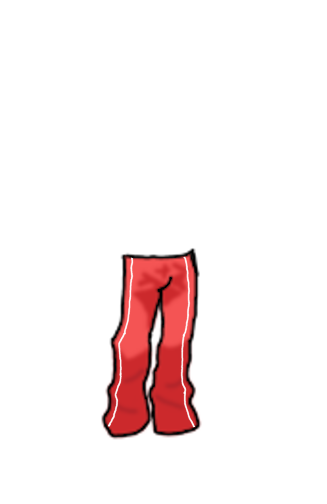
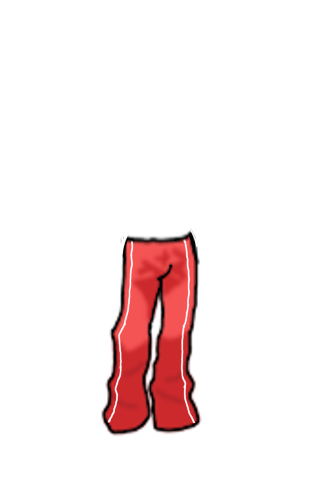
Agregar nuevas opciones de avatares TORA y CEREZA

Changed region(s): [[0.3058, 0.4464, 0.6116, 0.8929]]

diff --git a/perfil.html b/perfil.html
@@ -311,6 +311,8 @@ MacroReborn
               <div class="opcion-item" data-capa="ojos" data-valor="tora_ojos2" data-modelo="tora"><img src="imagenes/tora/ojos2.png" alt="">Ojos 2</div>
               <div class="opcion-item" data-capa="ojos" data-valor="tora_ojos3" data-modelo="tora"><img src="imagenes/tora/ojos3.png" alt="">Ojos 3</div>
               <div class="opcion-item" data-capa="ojos" data-valor="tora_ojos4" data-modelo="tora"><img src="imagenes/tora/ojos4.png" alt="">Ojos 4</div>
+              <div class="opcion-item" data-capa="ojos" data-valor="tora_ojos5" data-modelo="tora"><img src="imagenes/tora/ojos5.png" alt="">Ojos 5</div>
+              <div class="opcion-item" data-capa="ojos" data-valor="tora_ojos6" data-modelo="tora"><img src="imagenes/tora/ojos6.png" alt="">Ojos 6</div>
               <div class="opcion-item" data-capa="ojos" data-valor="cereza_ojos1" data-modelo="cereza"><img src="imagenes/cereza/ojos1.png" alt="">Ojos 1</div>
               <div class="opcion-item" data-capa="ojos" data-valor="cereza_ojos2" data-modelo="cereza"><img src="imagenes/cereza/ojos2.png" alt="">Ojos 2</div>
               <div class="opcion-item" data-capa="ojos" data-valor="cereza_ojos3" data-modelo="cereza"><img src="imagenes/cereza/ojos3.png" alt="">Ojos 3</div>
@@ -374,6 +376,8 @@ MacroReborn
               <div class="opcion-item" data-capa="botas" data-valor="tora_botas2" data-modelo="tora"><img src="imagenes/tora/botas2.png" alt="">Botas 2</div>
               <div class="opcion-item" data-capa="botas" data-valor="tora_botas3" data-modelo="tora"><img src="imagenes/tora/botas3.png" alt="">Botas 3</div>
               <div class="opcion-item" data-capa="botas" data-valor="tora_botas4" data-modelo="tora"><img src="imagenes/tora/botas4.png" alt="">Botas 4</div>
+              <div class="opcion-item" data-capa="botas" data-valor="tora_botas5" data-modelo="tora"><img src="imagenes/tora/botas5.png" alt="">Botas 5</div>
+              <div class="opcion-item" data-capa="botas" data-valor="tora_botas6" data-modelo="tora"><img src="imagenes/tora/botas6.png" alt="">Botas 6</div>
               <div class="opcion-item" data-capa="botas" data-valor="cereza_botas1" data-modelo="cereza"><img src="imagenes/cereza/botas1.png" alt="">Botas 1</div>
               <div class="opcion-item" data-capa="botas" data-valor="cereza_botas2" data-modelo="cereza"><img src="imagenes/cereza/botas2.png" alt="">Botas 2</div>
             </div>
@@ -408,6 +412,14 @@ MacroReborn
             <div class="fila-opciones">
               <div class="opcion-item" data-capa="accesorio" data-valor="tora_accesorio1" data-modelo="tora"><img src="imagenes/tora/accesorio1.png" alt="">Accesorio 1</div>
               <div class="opcion-item" data-capa="accesorio" data-valor="tora_accesorio2" data-modelo="tora"><img src="imagenes/tora/accesorio2.png" alt="">Accesorio 2</div>
+              <div class="opcion-item" data-capa="accesorio" data-valor="tora_accesorio3" data-modelo="tora"><img src="imagenes/tora/accesorio3.png" alt="">Accesorio 3</div>
+              <div class="opcion-item" data-capa="accesorio" data-valor="tora_accesorio4" data-modelo="tora"><img src="imagenes/tora/accesorio4.png" alt="">Accesorio 4</div>
+              <div class="opcion-item" data-capa="accesorio" data-valor="tora_accesorio5" data-modelo="tora"><img src="imagenes/tora/accesorio5.png" alt="">Accesorio 5</div>
+              <div class="opcion-item" data-capa="accesorio" data-valor="tora_accesorio6" data-modelo="tora"><img src="imagenes/tora/accesorio6.png" alt="">Accesorio 6</div>
+              <div class="opcion-item" data-capa="accesorio" data-valor="tora_accesorio7" data-modelo="tora"><img src="imagenes/tora/accesorio7.png" alt="">Accesorio 7</div>
+              <div class="opcion-item" data-capa="accesorio" data-valor="tora_accesorio8" data-modelo="tora"><img src="imagenes/tora/accesorio8.png" alt="">Accesorio 8</div>
+              <div class="opcion-item" data-capa="accesorio" data-valor="tora_accesorio9" data-modelo="tora"><img src="imagenes/tora/accesorio9.png" alt="">Accesorio 9</div>
+              <div class="opcion-item" data-capa="accesorio" data-valor="tora_accesorio10" data-modelo="tora"><img src="imagenes/tora/accesorio10.png" alt="">Accesorio 10</div>
               <div class="opcion-item" data-capa="accesorio" data-valor="cereza_accesorio1" data-modelo="cereza"><img src="imagenes/cereza/accesorio1.png" alt="">Accesorio 1</div>
               <div class="opcion-item" data-capa="accesorio" data-valor="cereza_accesorio2" data-modelo="cereza"><img src="imagenes/cereza/accesorio2.png" alt="">Accesorio 2</div>
             </div>
@@ -431,6 +443,9 @@ MacroReborn
               <div class="opcion-item" data-capa="cara" data-valor="tora_cara3" data-modelo="tora"><img src="imagenes/tora/cara3.png" alt="">Cara 3</div>
               <div class="opcion-item" data-capa="cara" data-valor="tora_cara4" data-modelo="tora"><img src="imagenes/tora/cara4.png" alt="">Cara 4</div>
               <div class="opcion-item" data-capa="cara" data-valor="tora_cara5" data-modelo="tora"><img src="imagenes/tora/cara5.png" alt="">Cara 5</div>
+              <div class="opcion-item" data-capa="cara" data-valor="tora_cara6" data-modelo="tora"><img src="imagenes/tora/cara6.png" alt="">Cara 6</div>
+              <div class="opcion-item" data-capa="cara" data-valor="tora_cara7" data-modelo="tora"><img src="imagenes/tora/cara7.png" alt="">Cara 7</div>
+              <div class="opcion-item" data-capa="cara" data-valor="tora_cara8" data-modelo="tora"><img src="imagenes/tora/cara8.png" alt="">Cara 8</div>
               <div class="opcion-item" data-capa="cara" data-valor="cereza_cara1" data-modelo="cereza"><img src="imagenes/cereza/cara1.png" alt="">Cara 1</div>
               <div class="opcion-item" data-capa="cara" data-valor="cereza_cara2" data-modelo="cereza"><img src="imagenes/cereza/cara2.png" alt="">Cara 2</div>
               <div class="opcion-item" data-capa="cara" data-valor="cereza_cara3" data-modelo="cereza"><img src="imagenes/cereza/cara3.png" alt="">Cara 3</div>
@@ -445,8 +460,18 @@ MacroReborn
               <div class="opcion-item" data-capa="mascota" data-valor="tora_mascota2" data-modelo="tora"><img src="imagenes/tora/mascota2.png" alt="">Mascota 2</div>
               <div class="opcion-item" data-capa="mascota" data-valor="tora_mascota3" data-modelo="tora"><img src="imagenes/tora/mascota3.png" alt="">Mascota 3</div>
               <div class="opcion-item" data-capa="mascota" data-valor="tora_mascota4" data-modelo="tora"><img src="imagenes/tora/mascota4.png" alt="">Mascota 4</div>
+              <div class="opcion-item" data-capa="mascota" data-valor="tora_mascota5" data-modelo="tora"><img src="imagenes/tora/mascota5.png" alt="">Mascota 5</div>
+              <div class="opcion-item" data-capa="mascota" data-valor="tora_mascota6" data-modelo="tora"><img src="imagenes/tora/mascota6.png" alt="">Mascota 6</div>
+              <div class="opcion-item" data-capa="mascota" data-valor="tora_mascota7" data-modelo="tora"><img src="imagenes/tora/mascota7.png" alt="">Mascota 7</div>
+              <div class="opcion-item" data-capa="mascota" data-valor="tora_mascota8" data-modelo="tora"><img src="imagenes/tora/mascota8.png" alt="">Mascota 8</div>
+              <div class="opcion-item" data-capa="mascota" data-valor="tora_mascota9" data-modelo="tora"><img src="imagenes/tora/mascota9.png" alt="">Mascota 9</div>
               <div class="opcion-item" data-capa="mascota" data-valor="cereza_mascota1" data-modelo="cereza"><img src="imagenes/cereza/mascota1.png" alt="">Mascota 1</div>
               <div class="opcion-item" data-capa="mascota" data-valor="cereza_mascota2" data-modelo="cereza"><img src="imagenes/cereza/mascota2.png" alt="">Mascota 2</div>
+              <div class="opcion-item" data-capa="mascota" data-valor="cereza_mascota5" data-modelo="cereza"><img src="imagenes/cereza/mascota5.png" alt="">Mascota 5</div>
+              <div class="opcion-item" data-capa="mascota" data-valor="cereza_mascota6" data-modelo="cereza"><img src="imagenes/cereza/mascota6.png" alt="">Mascota 6</div>
+              <div class="opcion-item" data-capa="mascota" data-valor="cereza_mascota7" data-modelo="cereza"><img src="imagenes/cereza/mascota7.png" alt="">Mascota 7</div>
+              <div class="opcion-item" data-capa="mascota" data-valor="cereza_mascota8" data-modelo="cereza"><img src="imagenes/cereza/mascota8.png" alt="">Mascota 8</div>
+              <div class="opcion-item" data-capa="mascota" data-valor="cereza_mascota9" data-modelo="cereza"><img src="imagenes/cereza/mascota9.png" alt="">Mascota 9</div>
             </div>
           </div>
 

diff --git a/js/perfil.js b/js/perfil.js
@@ -226,6 +226,8 @@ const CAPAS_IMG={
   tora_ojos2:"imagenes/tora/ojos2.png",
   tora_ojos3:"imagenes/tora/ojos3.png",
   tora_ojos4:"imagenes/tora/ojos4.png",
+  tora_ojos5:"imagenes/tora/ojos5.png",
+  tora_ojos6:"imagenes/tora/ojos6.png",
   tora_boca1:"imagenes/tora/boca1.png",
   tora_boca2:"imagenes/tora/boca2.png",
   tora_boca3:"imagenes/tora/boca3.png",
@@ -241,6 +243,8 @@ const CAPAS_IMG={
   tora_botas2:"imagenes/tora/botas2.png",
   tora_botas3:"imagenes/tora/botas3.png",
   tora_botas4:"imagenes/tora/botas4.png",
+  tora_botas5:"imagenes/tora/botas5.png",
+  tora_botas6:"imagenes/tora/botas6.png",
   tora_pelo1:"imagenes/tora/pelo1.png",
   tora_pelo2:"imagenes/tora/pelo2.png",
   tora_pelo3:"imagenes/tora/pelo3.png",
@@ -257,15 +261,31 @@ const CAPAS_IMG={
   tora_espalda2:"imagenes/tora/espalda2.png",
   tora_accesorio1:"imagenes/tora/accesorio1.png",
   tora_accesorio2:"imagenes/tora/accesorio2.png",
+  tora_accesorio3:"imagenes/tora/accesorio3.png",
+  tora_accesorio4:"imagenes/tora/accesorio4.png",
+  tora_accesorio5:"imagenes/tora/accesorio5.png",
+  tora_accesorio6:"imagenes/tora/accesorio6.png",
+  tora_accesorio7:"imagenes/tora/accesorio7.png",
+  tora_accesorio8:"imagenes/tora/accesorio8.png",
+  tora_accesorio9:"imagenes/tora/accesorio9.png",
+  tora_accesorio10:"imagenes/tora/accesorio10.png",
   tora_cara1:"imagenes/tora/cara1.png",
   tora_cara2:"imagenes/tora/cara2.png",
   tora_cara3:"imagenes/tora/cara3.png",
   tora_cara4:"imagenes/tora/cara4.png",
   tora_cara5:"imagenes/tora/cara5.png",
+  tora_cara6:"imagenes/tora/cara6.png",
+  tora_cara7:"imagenes/tora/cara7.png",
+  tora_cara8:"imagenes/tora/cara8.png",
   tora_mascota1:"imagenes/tora/mascota1.png",
   tora_mascota2:"imagenes/tora/mascota2.png",
   tora_mascota3:"imagenes/tora/mascota3.png",
   tora_mascota4:"imagenes/tora/mascota4.png",
+  tora_mascota5:"imagenes/tora/mascota5.png",
+  tora_mascota6:"imagenes/tora/mascota6.png",
+  tora_mascota7:"imagenes/tora/mascota7.png",
+  tora_mascota8:"imagenes/tora/mascota8.png",
+  tora_mascota9:"imagenes/tora/mascota9.png",
   tora_borde1:"imagenes/tora/borde1.png",
   tora_borde2:"imagenes/tora/borde2.png",
   tora_borde3:"imagenes/tora/borde3.png",
@@ -348,6 +368,11 @@ const CAPAS_IMG={
   cereza_cara4:"imagenes/cereza/cara4.png",
   cereza_mascota1:"imagenes/cereza/mascota1.png",
   cereza_mascota2:"imagenes/cereza/mascota2.png",
+  cereza_mascota5:"imagenes/cereza/mascota5.png",
+  cereza_mascota6:"imagenes/cereza/mascota6.png",
+  cereza_mascota7:"imagenes/cereza/mascota7.png",
+  cereza_mascota8:"imagenes/cereza/mascota8.png",
+  cereza_mascota9:"imagenes/cereza/mascota9.png",
   cereza_borde1:"imagenes/cereza/borde1.png",
   cereza_borde2:"imagenes/cereza/borde2.png",
   cereza_borde3:"imagenes/cereza/borde3.png",
